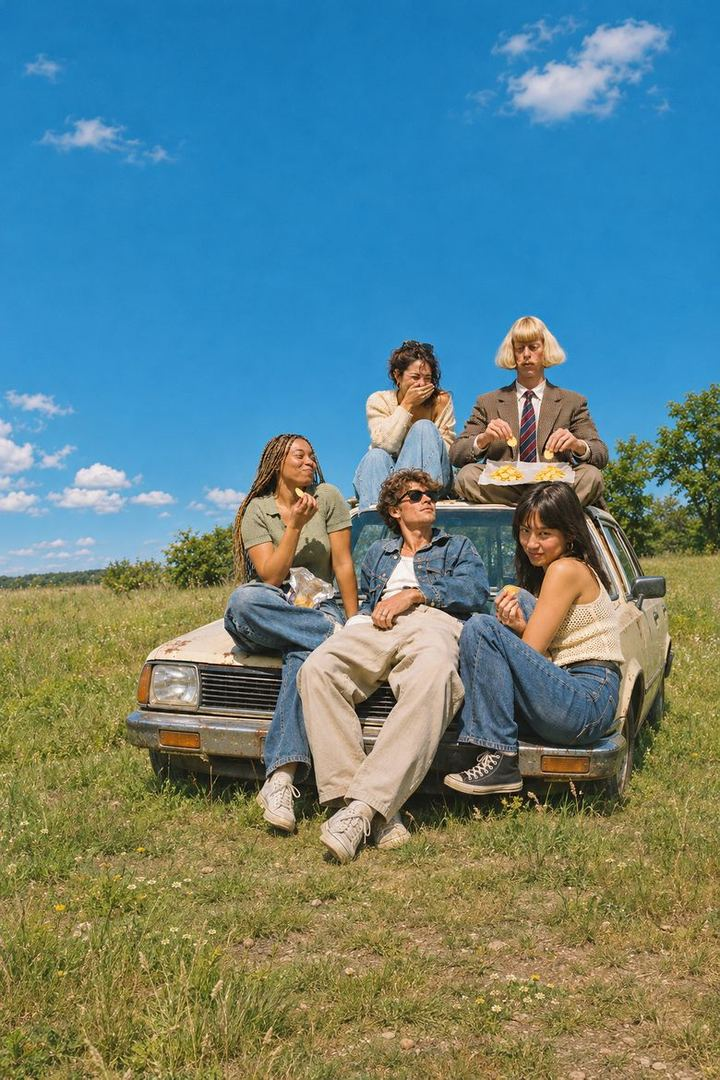
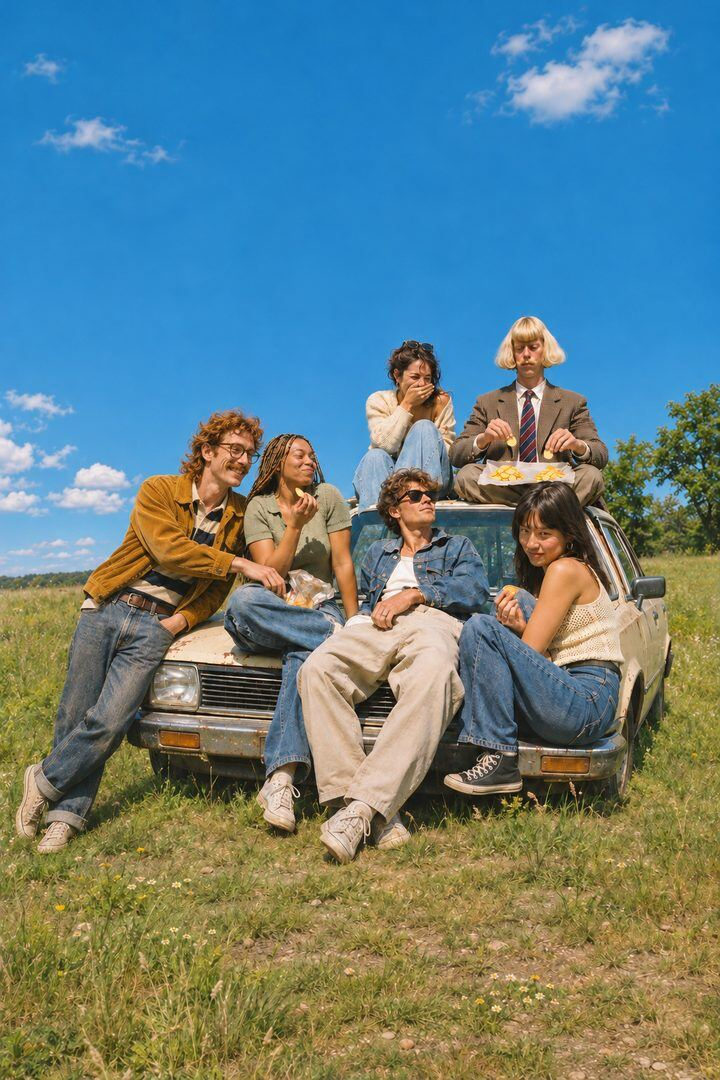
Phone app: all six friends in the crisps story, drifting clouds on Sunday [testflight]
Slide 1 (the picnic) now has Jean Phil by the basket and slide 3 has Leo
leaning on the car, with new anchor points so the wider groups fit.
Slide 5 has a deeper blue sky, and its high clouds sit on their own
layer that drifts slowly sideways (9 s each way), still under Reduce
Motion. Photos from the opening flow design.

Claude-Session: https://claude.ai/code/session_01TFug6Zkjw7p11FxL3guDfE

Changed region(s): [[0.0, 0.3056, 1.0, 1.0], [0.6722, 0.4889, 0.7333, 0.6111], [0.4889, 0.6417, 0.5194, 0.7028]]

diff --git a/apps/native/src/opening/screensStart.tsx b/apps/native/src/opening/screensStart.tsx
@@ -5,7 +5,7 @@
 import { useCallback, useEffect, useMemo, useRef, useState } from "react";
 import { Image, Pressable, StyleSheet, View, useWindowDimensions } from "react-native";
 import Animated, {
-  Easing, cancelAnimation, runOnJS, useAnimatedStyle, useSharedValue, withDelay, withSequence, withTiming,
+  Easing, cancelAnimation, runOnJS, useAnimatedStyle, useSharedValue, withDelay, withRepeat, withSequence, withTiming,
 } from "react-native-reanimated";
 import { Gesture, GestureDetector } from "react-native-gesture-handler";
 import { useSafeAreaInsets } from "react-native-safe-area-context";
@@ -15,7 +15,7 @@ import { PressScale, haptic, useCalm } from "../ui/motion";
 import { startScreen } from "./engine";
 import { useActive, useFlow, useClockGroup } from "./flow";
 import { IMAGES, PHOTO_RATIO, type ImageKey } from "./images";
-import { CAST, FOCAL, GROUPS, type Beat, type CastId, type GroupKey } from "./stories";
+import { CAST, CLOUDS, FOCAL, GROUPS, type Beat, type CastId, type GroupKey } from "./stories";
 import { Av, CloseX, Drawer, EASE, EASE_OUT, Glass, Ini, LinkBtn, O, Pill, Rise, Shade, Wordmark, YouAv, FILL, img, type } from "./ui";
 
 /* ---------- launch ---------- */
@@ -212,7 +212,22 @@ function Slide({ k, on }: { k: ImageKey; on: boolean }) {
         <SvgImage href={IMAGES[k]} x={layout.x} y={layout.y} width={layout.imgW} height={layout.imgH} preserveAspectRatio="xMidYMid slice" mask={`url(#${id})`} />
       </Svg>
     </> : <Image source={img(k)} style={{ position: "absolute", left: layout.x, top: layout.y, width: layout.imgW, height: layout.imgH }} />}
+    {CLOUDS[k] && <Clouds k={CLOUDS[k]!} on={on} box={layout} />}
   </Animated.View>;
+}
+
+/** A photo's high clouds on their own layer, drifting slowly sideways (9 s each way). Still under Reduce Motion. */
+function Clouds({ k, on, box }: { k: ImageKey; on: boolean; box: { imgW: number; imgH: number; x: number; y: number } }) {
+  const calm = useCalm();
+  const drift = useSharedValue(-10);
+  useEffect(() => {
+    cancelAnimation(drift);
+    if (on && !calm) drift.value = withRepeat(withTiming(12, { duration: 9000, easing: Easing.inOut(Easing.ease) }), -1, true);
+    else drift.value = withTiming(0, { duration: 400 });
+    return () => cancelAnimation(drift);
+  }, [on, calm, drift]);
+  const a = useAnimatedStyle(() => ({ transform: [{ translateX: drift.value }] }));
+  return <Animated.Image source={img(k)} style={[{ position: "absolute", left: box.x, top: box.y, width: box.imgW, height: box.imgH }, a]} />;
 }
 
 function Bar({ state, progress }: { state: "done" | "now" | "later"; progress: ReturnType<typeof useSharedValue<number>> }) {

diff --git a/apps/native/src/opening/stories.ts b/apps/native/src/opening/stories.ts
@@ -221,12 +221,15 @@ export const FOCAL: Partial<Record<ImageKey, [number, number]>> = {
   "xmas-b": [0.5,0.74],
   "xmas-c": [0.48,0.86],
   "xmas-f": [0.5,0.8],
-  "picnic": [0.55,0],
+  "picnic": [0.53,0.88],
   "fridge": [0.5,0.78],
-  "chips": [0.6,0],
+  "chips": [0.49,0.86],
   "bench": [0.5,0],
   "shadowbox": [0.5,0],
 };
+
+/** Photos whose clouds sit on their own layer and drift slowly across the sky. */
+export const CLOUDS: Partial<Record<ImageKey, ImageKey>> = { shadowbox: "shadowbox-clouds" };
 
 /** Loading lines any commune can show, mixed with the story's own. */
 export const GENERAL_LINES: string[] = [ "Putting the kettle on", "Rounding the pennies kindly", "Untangling who owes who", "Asking who finished the milk", "Agreeing on the thermostat", "Finding the TV remote", "Checking the rota twice", "Sorting the recycling properly", "Defrosting the group chat", "Labelling Ama's oat milk", "Watering Mei's plants", "Waiting for Theo to get you back" ];

diff --git a/apps/native/src/opening/images.ts b/apps/native/src/opening/images.ts
@@ -37,6 +37,7 @@ export const IMAGES = {
   "roast-c": require("../../assets/opening/s/roast-c.jpg"),
   "roast-f": require("../../assets/opening/s/roast-f.jpg"),
   "shadowbox": require("../../assets/opening/s/shadowbox.jpg"),
+  "shadowbox-clouds": require("../../assets/opening/s/shadowbox-clouds.png"),
   "taxi-a": require("../../assets/opening/s/taxi-a.jpg"),
   "taxi-b": require("../../assets/opening/s/taxi-b.jpg"),
   "taxi-c": require("../../assets/opening/s/taxi-c.jpg"),
